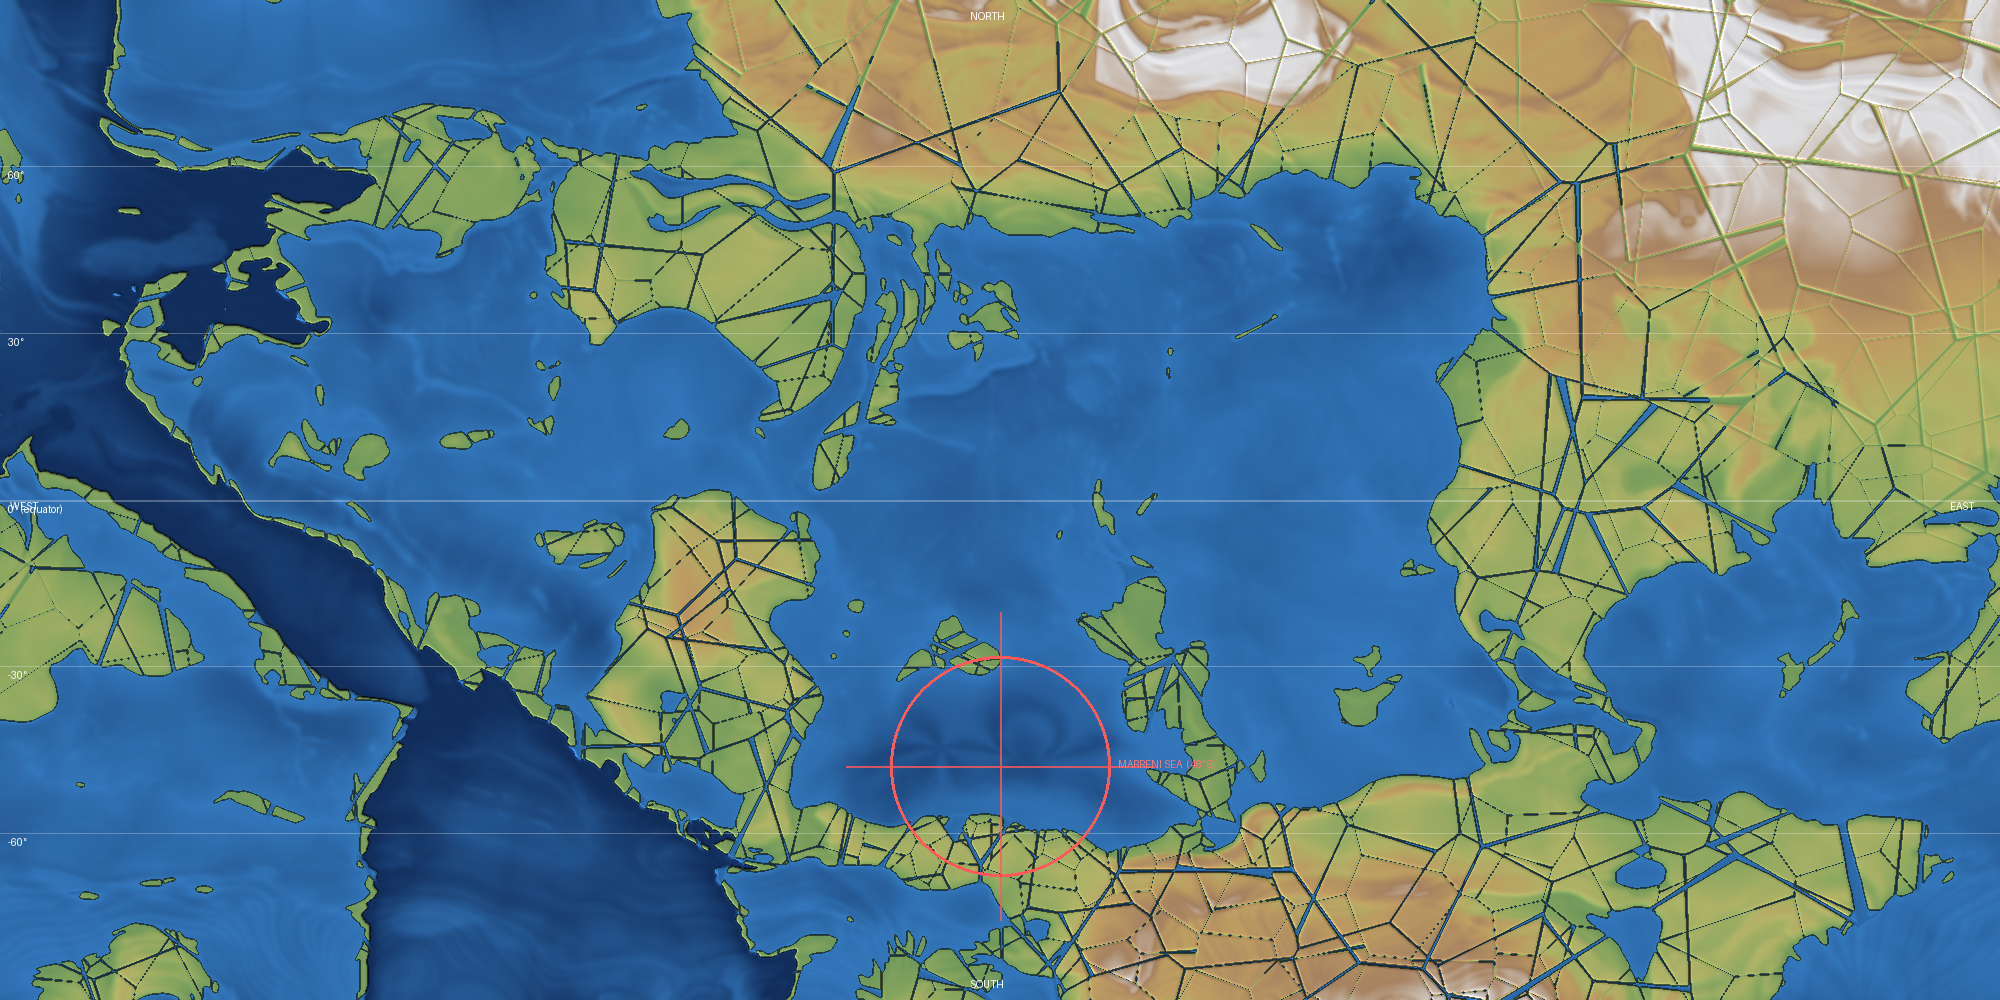
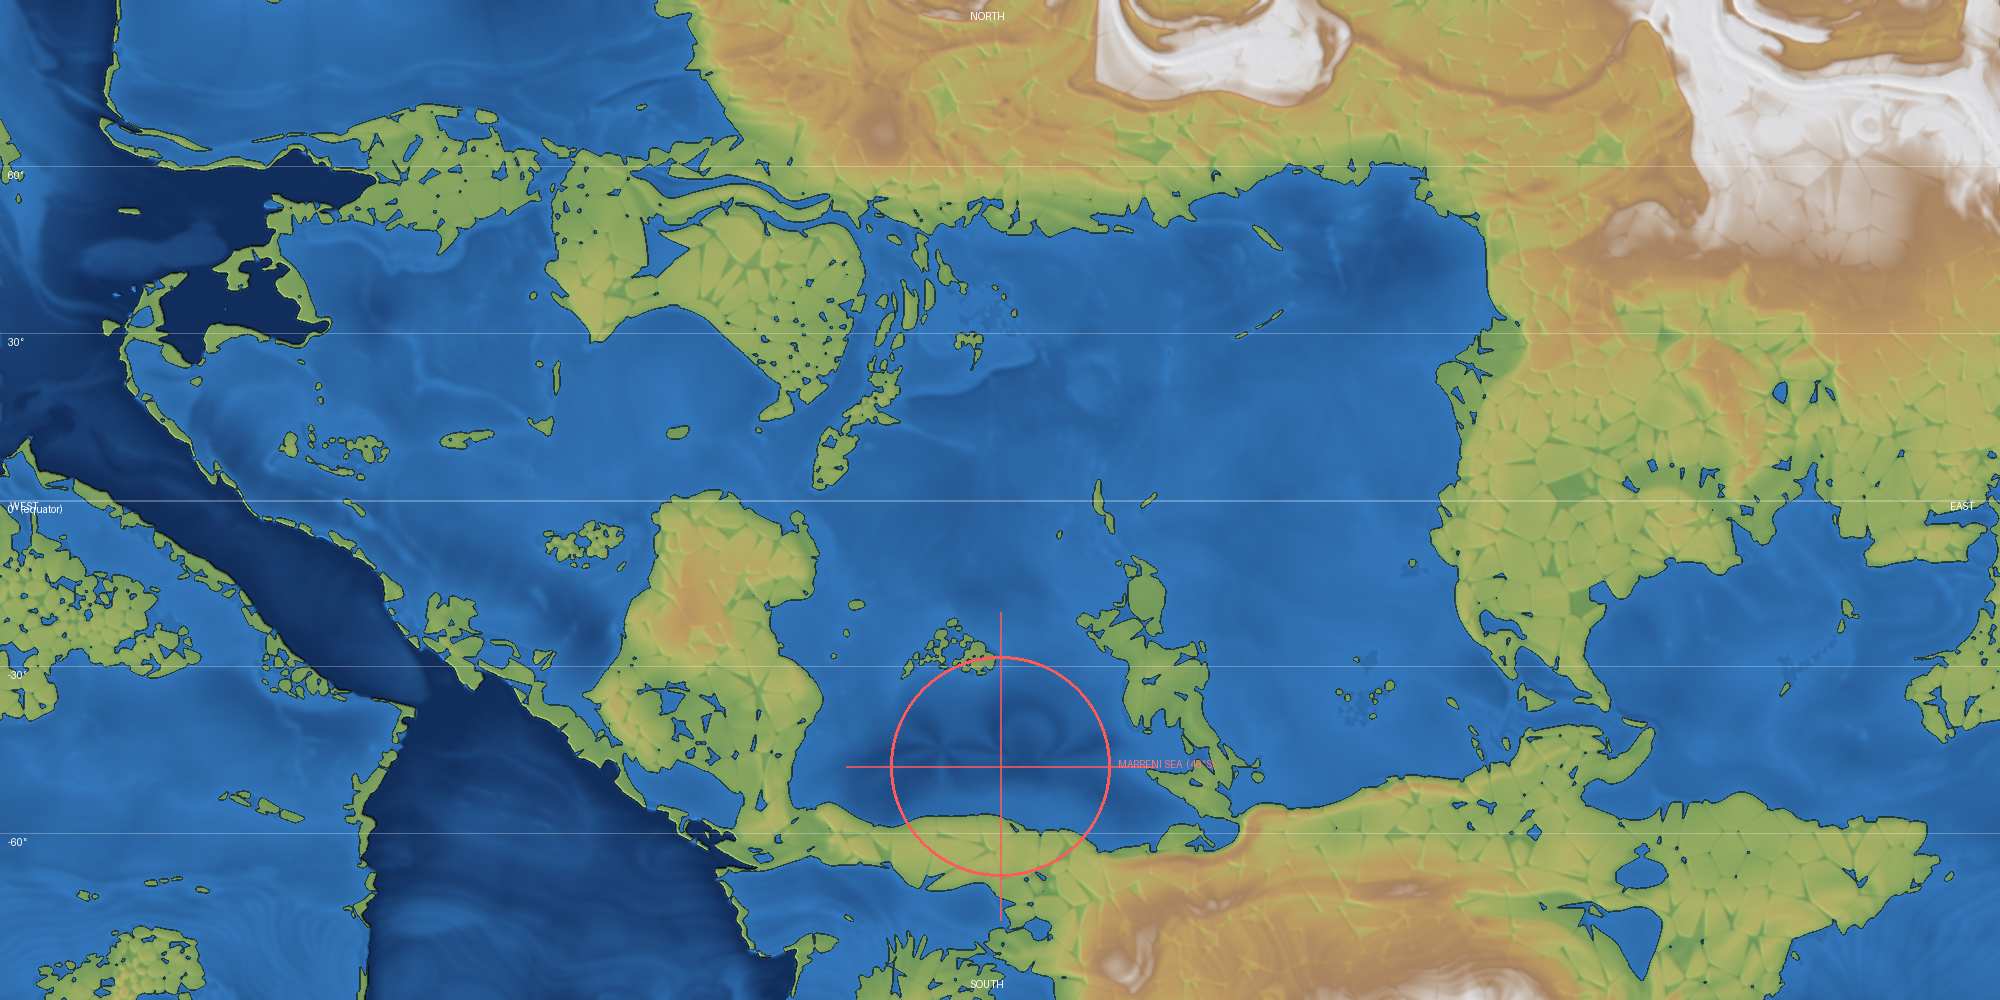
Fractures radiate per continent, avoid mountains, and read as short cuts
Four changes to the fracture model:

- Cracks now radiate from the centre of EACH continent rather than from one
  global point. A landmass under stress fails from its interior outward, so
  every continent carries its own star of fractures, scaled to its size.
- Fractures prefer weakness. Uplift suppresses the network, so crack fronts
  run around a mountain root instead of through it and ranges survive as
  unbroken spines between shattered lowlands.
- Many small cells rather than few large ones, so individual cuts are short
  straight segments. Short segments chained end to end describe curves, which
  is how real crack fronts look: locally straight, globally sinuous.
- Junctions are softened before thresholding, rounding the meetings of
  channels rather than leaving hard Voronoi corners.

Claude-Session: https://claude.ai/code/session_018RNiR11dzHysuEZosmUT3X

diff --git a/maps/generate_world.py b/maps/generate_world.py
@@ -261,111 +261,102 @@ def fracture(z, rng, n_cuts, width, depth):
     return out
 
 
-def fracture_network(z, rng, scales=3, base_scale=None, depth=5200,
+def fracture_network(z, rng, scales=3, base_scale=None, depth=2200,
                      density=1.0, sharpness=7.0, land_only=True, cells=140,
-                     impact_lat=-48.0, impact_lon=0.0):
-    """The Drowned Fractures — the world's most distinctive feature.
+                     impact_lat=-48.0, impact_lon=0.0,
+                     mountain_avoidance=1.0, smoothing=1.6):
+    """The Drowned Fractures.
 
-    When the crust gave way, it did not open a few great rifts. It *crazed*,
-    like glass, and then the sea came into every crack. What is left is a
-    branching network of narrow saltwater channels running through the
-    continents — they look like river systems and behave like nothing of the
-    sort. They have no source and no mouth. They do not flow. They are the
-    ocean, reaching inland through a shattered land.
+    Cracks radiate from the centre of EACH continent, not from one global
+    point: a landmass under stress fails from its interior outward, so every
+    continent carries its own star of fractures.
 
-    Built from ridged noise at several scales: broad channels at the coarsest
-    scale, ever-finer tributaries below it, so the network has the branching
-    hierarchy of drainage without any of its logic. Narrow, because these are
-    fractures, not straits.
+    Built from a jittered polar lattice of nuclei per continent, then read as
+    Voronoi cell walls. Many small cells rather than a few large ones, so the
+    individual cuts are short straight segments — and short segments chained
+    end to end describe curves, which is how real crack fronts look: locally
+    straight, globally sinuous.
+
+    Fractures also prefer weakness. Crack fronts run around a mountain root
+    rather than through it, so uplift suppresses the network and the ranges
+    survive as unbroken spines between shattered lowlands.
     """
     h, w = z.shape
 
-    # STRAIGHT cracks, not meandering ones.
-    #
-    # Brittle material does not craze in curves. Glass, dried mud and rock
-    # break along straight segments that meet at angular junctions, enclosing
-    # polygonal fragments. That is a Voronoi diagram, not a noise field — and
-    # using ridged noise here was simply the wrong model, which is why no
-    # amount of tuning ever made it look fractured.
-    #
-    # A pixel lies on a crack when it is nearly equidistant from its two
-    # nearest fracture nuclei: those loci are exactly the straight cell walls.
+    # --- one radial lattice per continent -----------------------------
+    land = z >= 0
+    lab, n = ndimage.label(land, structure=np.ones((3, 3)))
+    seeds_y, seeds_x = [], []
+
+    if n:
+        sizes = np.bincount(lab.ravel())
+        # every landmass worth cracking gets its own centre of failure
+        targets = [i for i in range(1, n + 1)
+                   if sizes[i] > 0.0006 * land.size]
+        if not targets:
+            targets = [int(np.argmax(sizes[1:])) + 1]
+
+        for t in targets:
+            ys, xs = np.nonzero(lab == t)
+            cy, cx = ys.mean(), xs.mean()
+            extent = max(np.sqrt(sizes[t] / np.pi), 6.0)
+
+            # cells scale with the continent, so small landmasses are not
+            # pulverised while large ones stay properly fragmented
+            k = int(np.clip(cells * (sizes[t] / (0.02 * land.size)), 24, 1400))
+            n_rings = max(int(np.sqrt(k) * 1.5), 4)
+
+            for ring in range(n_rings):
+                frac = (ring + 0.5) / n_rings
+                radius = (frac ** 1.15) * extent * 2.1
+                count = max(int(6 + 2.3 * ring), 5)
+                theta = (np.linspace(0, 2 * np.pi, count, endpoint=False)
+                         + rng.uniform(0, 2 * np.pi)
+                         + rng.normal(0, 0.16, count))
+                rj = radius * (1.0 + rng.normal(0, 0.13, count))
+                seeds_y.append(cy + rj * np.sin(theta))
+                seeds_x.append(cx + rj * np.cos(theta) / 0.8)
+
+    if not seeds_y:
+        return z
+
+    py = np.concatenate(seeds_y)
+    px = np.concatenate(seeds_x)
+
     from scipy.spatial import cKDTree
-
-    crack = np.zeros((h, w), dtype=np.float32)
+    seeds = np.column_stack([
+        np.concatenate([py, py, py]),
+        np.concatenate([px - w, px, px + w]),
+    ])
     yy, xx = np.mgrid[0:h, 0:w].astype(np.float32)
-    pts_grid = np.column_stack([yy.ravel(), xx.ravel()])
+    d, _ = cKDTree(seeds).query(np.column_stack([yy.ravel(), xx.ravel()]),
+                                k=2, workers=-1)
+    gap = (d[:, 1] - d[:, 0]).reshape(h, w)
 
-    # Fracture nuclei are laid out in POLAR coordinates about the impact.
-    #
-    # A strike does not craze a world evenly: it drives cracks outward. Seeds
-    # arranged on a jittered polar lattice produce cell walls that run radially
-    # (spokes) and circumferentially (rings) — the star-and-ring pattern of a
-    # struck pane — while remaining straight segments meeting at angles.
-    ic_y = (90.0 - impact_lat) / 180.0 * h
-    ic_x = (impact_lon + 180.0) / 360.0 * w
+    width = max(w * 0.0011, 0.8)
+    crack = np.clip(1.0 - gap / (2.0 * width), 0.0, 1.0)
 
-    n_cells = max(int(cells), 8)
-    for i in range(scales):
-        k = int(n_cells * (2.6 ** i))
-        n_rings = max(int(np.sqrt(k) * 1.15), 3)
-        per_ring = max(k // n_rings, 4)
+    # --- soften junctions ---------------------------------------------
+    # Raw Voronoi corners meet at hard points. A little blur before
+    # thresholding rounds the meetings of channels the way water and time do.
+    crack = ndimage.gaussian_filter(crack, smoothing, mode=("nearest", "wrap"))
+    crack /= max(crack.max(), 1e-6)
 
-        rr, tt = [], []
-        for ring in range(n_rings):
-            # Rings crowd near the impact and spread with distance
-            frac = (ring + 0.55) / n_rings
-            radius = (frac ** 1.45) * (h * 1.5)
-            count = max(int(per_ring * (0.45 + 1.1 * frac)), 4)
-            theta = (np.linspace(0, 2 * np.pi, count, endpoint=False)
-                     + rng.uniform(0, 2 * np.pi)
-                     + rng.normal(0, 0.30 / max(frac, 0.15), count))
-            rr.append(radius * (1.0 + rng.normal(0, 0.16, count)))
-            tt.append(theta)
+    m = np.clip((crack - (1.0 - 0.62 * np.clip(density, 0, 3))) / 0.30, 0.0, 1.0)
+    m = m * m * (3 - 2 * m)
 
-        rr = np.concatenate(rr)
-        tt = np.concatenate(tt)
-        py = ic_y + rr * np.sin(tt)
-        px = ic_x + rr * np.cos(tt) / 0.75      # widen for equirect stretch
-        # Wrap in longitude so cracks cross the seam cleanly
-        seeds = np.column_stack([
-            np.concatenate([py, py, py]),
-            np.concatenate([px - w, px, px + w]),
-        ])
-        d, _ = cKDTree(seeds).query(pts_grid, k=2, workers=-1)
-        gap = (d[:, 1] - d[:, 0]).reshape(h, w)
-
-        # Width of the wall, in pixels, shrinking with each finer generation
-        width = max(w * 0.0016 * (0.72 ** i), 0.9)
-        wall = np.clip(1.0 - gap / (2.0 * width), 0.0, 1.0)
-        crack = np.maximum(crack, wall * (0.88 ** i))
-
-    # CUT, don't subtract.
-    #
-    # Subtracting depth only breaks the surface where land is already low,
-    # which is why an earlier version merely nibbled the coasts and left every
-    # interior solid. A fracture does not care how high the ground above it
-    # was: the crust parted, and the sea came in. So the channel is forced
-    # below sea level wherever the crack is strong enough, through highlands
-    # and lowlands alike.
-    m = np.clip((crack - (1.0 - 0.55 * np.clip(density, 0, 3))) / 0.35, 0.0, 1.0)
-    m = np.clip(m, 0.0, 1.0)
-    m = m * m * (3 - 2 * m)                      # smoothstep for clean walls
-
-    # Fracturing is most violent near the strike and fades with distance.
-    yy2, xx2 = np.mgrid[0:h, 0:w].astype(np.float32)
-    dxi = (np.mod(xx2 - ic_x + w / 2, w) - w / 2) * latitude_weight(h, w)
-    dist = np.sqrt(dxi ** 2 + (yy2 - ic_y) ** 2) / (h * 1.15)
-    m *= np.clip(1.25 - 0.75 * dist, 0.18, 1.0)
+    # --- fractures go around mountains, not through them --------------
+    if mountain_avoidance and land.any():
+        hi = np.percentile(z[land], 88) or 1.0
+        relief = np.clip(z / hi, 0.0, 1.0)
+        m *= np.clip(1.0 - mountain_avoidance * relief ** 0.8, 0.05, 1.0)
 
     if land_only:
-        # The crust cracked; the seafloor is not our concern. Confine the
-        # network to land (feathered slightly so channels reach the coast
-        # and open into the sea rather than stopping short of it).
-        near_land = ndimage.gaussian_filter((z >= 0).astype(np.float32), 2.0,
+        near_land = ndimage.gaussian_filter(land.astype(np.float32), 2.0,
                                             mode=("nearest", "wrap"))
         m *= np.clip(near_land * 1.6, 0.0, 1.0)
 
+    m = ndimage.gaussian_filter(m, 0.7, mode=("nearest", "wrap"))
     floor = -abs(depth) * (0.35 + 0.65 * m)
     return z * (1.0 - m) + floor * m
 
@@ -577,7 +568,7 @@ def build(seed, land_fraction, warp, rift, impact_lat, impact_lon,
           hotspots=6, mountains=1.0, fractures=7, fracture_width=0.020,
           seas=4, sunder=False, sunder_width=0.0045,
           crazing=1.0, crazing_scales=3, crazing_sharp=14.0,
-          crazing_cells=140):
+          crazing_cells=140, mountain_avoidance=1.0, crack_smoothing=1.6):
     rng = np.random.default_rng(seed)
     z = load_earth()
 
@@ -618,7 +609,9 @@ def build(seed, land_fraction, warp, rift, impact_lat, impact_lon,
         z = fracture_network(z, rng, scales=crazing_scales,
                              depth=2200, density=crazing,
                              sharpness=crazing_sharp, cells=crazing_cells,
-                             impact_lat=impact_lat, impact_lon=impact_lon)
+                             impact_lat=impact_lat, impact_lon=impact_lon,
+                             mountain_avoidance=mountain_avoidance,
+                             smoothing=crack_smoothing)
 
     corridor = None
     if sunder:
@@ -659,6 +652,8 @@ def main():
     p.add_argument("--crazing", type=float, default=1.0,
                    help="density of drowned saltwater fracture channels")
     p.add_argument("--crazing-scales", type=int, default=3)
+    p.add_argument("--mountain-avoidance", type=float, default=1.0)
+    p.add_argument("--crack-smoothing", type=float, default=1.6)
     p.add_argument("--crazing-cells", type=int, default=140,
                    help="number of fracture nuclei at the coarsest generation")
     p.add_argument("--crazing-sharp", type=float, default=14.0)
@@ -673,7 +668,7 @@ def main():
                     a.fractures, a.fracture_width, a.seas,
                     a.sunder, a.sunder_width,
                     a.crazing, a.crazing_scales, a.crazing_sharp,
-                    a.crazing_cells)
+                    a.crazing_cells, a.mountain_avoidance, a.crack_smoothing)
 
     render_colour(z).save(f"{a.out}_seed{a.seed}_colour.png")
     render_heightmap(z).save(f"{a.out}_seed{a.seed}_height.png")
